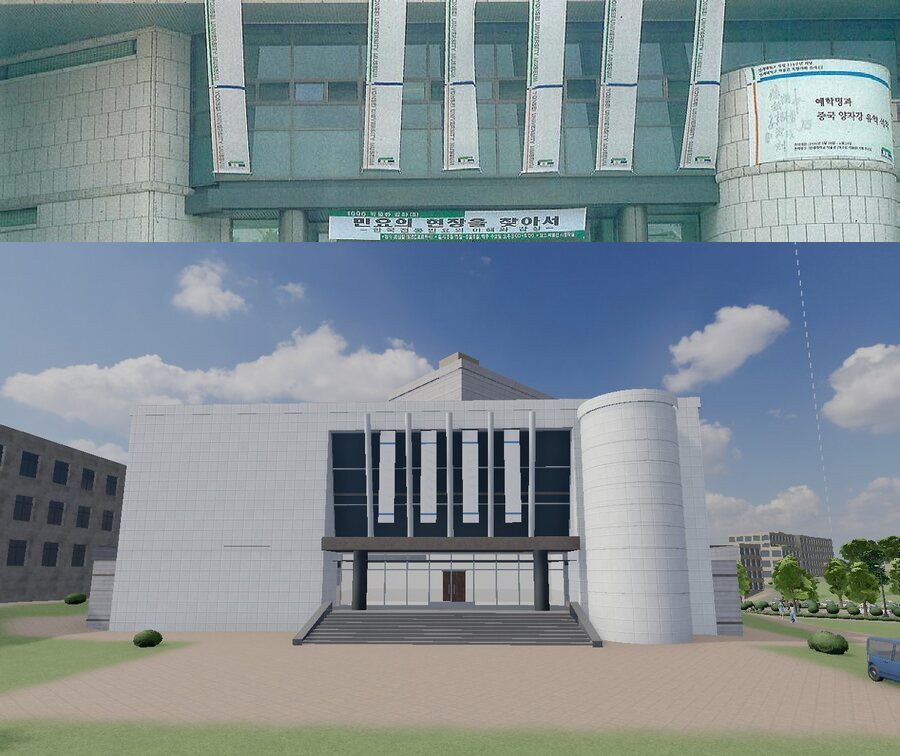
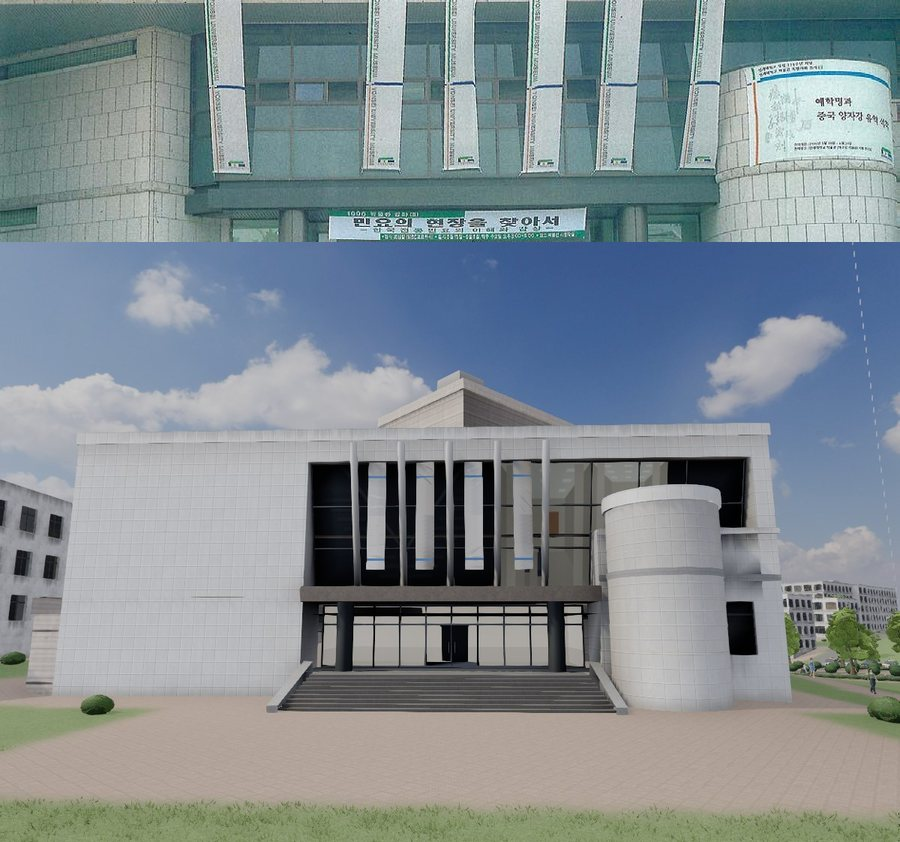
백주년기념관 북쪽에서 원통이 땅까지 내려와 발치에 곡면 유리 로비
박물관 입구 덩어리 뒤에서 백양로 쪽 현관 북쪽 벽까지 기단을 원통 원에서
끝내고, 원통 발치를 짙은 멀리언 · 가로대의 곡면 유리(불 켜진 홀)와 흰
판석 · 거친 화강석 띠로. 원통 원과 OSM 외곽선 사이 두 자리는 회양목 화단.

박물관 입구 오른쪽은 정면 · 측면 사진대로:
- 유리벽이 원통 뒤로 북쪽 모서리 앞 기둥까지 이어짐
- 원통 머리를 유리 머리 아래로 낮춤
- 그 아래 낮은 흰 벽에 화강석 띠와 가로 창 띠, 북서쪽 옆면까지 돌아감

측면 사진은 입구 오른쪽에서 찍은 것이라 비교 그림 75를 그쪽 카메라로,
52는 같은 카메라로 다시 찍음. 새 소식 캡처 90 · 91.

diff --git a/blender/landmarks.py b/blender/landmarks.py
@@ -374,6 +374,106 @@ def union():
 
 
 # ============================================================================= 백주년기념관
+def circle_cross(c, r, p, q):
+    """Where the segment p -> q (one end inside the circle (c, r), the other outside) crosses the circle."""
+    p, q, c = Vector(p).to_2d(), Vector(q).to_2d(), Vector(c).to_2d()
+    d = q - p
+    f = p - c
+    a, b, cc = d.dot(d), 2 * f.dot(d), f.dot(f) - r * r
+    disc = math.sqrt(max(0.0, b * b - 4 * a * cc))
+    ts = [u for u in ((-b - disc) / (2 * a), (-b + disc) / (2 * a)) if -1e-6 <= u <= 1 + 1e-6]
+    return p + d * (ts[0] if ts else 0.5)
+
+
+def inside_poly(pt, poly):
+    x, y = pt
+    ins = False
+    for i in range(len(poly)):
+        (x1, y1), (x2, y2) = poly[i], poly[i - 1]
+        if (y1 > y) != (y2 > y) and x < x1 + (y - y1) * (x2 - x1) / (y2 - y1):
+            ins = not ins
+    return ins
+
+
+def seg_dist(pt, a, b):
+    p, a, b = Vector(pt), Vector(a), Vector(b)
+    ab = b - a
+    u = max(0.0, min(1.0, (p - a).dot(ab) / max(ab.dot(ab), 1e-9)))
+    return (p - (a + ab * u)).length
+
+
+def planter(mb, poly, z0):
+    """A raised granite planter of clipped box filling the polygon poly (2D, either winding) over the ground."""
+    area = sum(poly[i - 1][0] * poly[i][1] - poly[i][0] * poly[i - 1][1] for i in range(len(poly))) / 2
+    poly = [tuple(p) for p in (poly if area > 0 else poly[::-1])]
+    zp = max(ground_top(*p) for p in poly) - z0 + 0.45
+    mb.prism(poly, z0 - 1.0, z0 + zp, 'stone_granite')
+    mb.face([(x, y, z0 + zp - 0.06) for x, y in poly], 'soil')
+    edges = list(zip(poly, poly[1:] + poly[:1]))
+    xs, ys = [p[0] for p in poly], [p[1] for p in poly]
+    gx = min(xs) + 0.4
+    while gx < max(xs):
+        gy = min(ys) + 0.4
+        while gy < max(ys):
+            if inside_poly((gx, gy), poly) and min(seg_dist((gx, gy), a_, b_) for a_, b_ in edges) > 0.45:
+                mb.sphere((gx, gy, z0 + zp + 0.25), 0.55, 'hedge_boxwood', seg=10, rings=7, sz=0.75)
+            gy += 0.8
+        gx += 0.8
+
+
+def nw_lobby(mb, c, R, arc, z0, HP, low, pockets):
+    """백주년기념관's drum come down to the ground on its north side (issue #32), on the arc `arc` of the drum's circle
+    (c, R): the 1996 side photo of the museum entrance shows the big curved wall going down past the low wall to tall
+    curved glass in dark upright mullions and a transom, under a band of white panels with a rough granite course;
+    today's photo of the 백양로 side the same curved row of glass left of the concert hall's porch.  The lobby behind it
+    lit like the other halls' (window glass in hall mode, common.py pane_uv).  The sill clears the ground where the
+    glass stands free (low: the arc's points there); in the outline's pockets outside it (pockets: polygons) raised
+    granite planters of clipped box, in front of the glass where the ground rises past its sill."""
+    gmax = max(ground_top(c[0] + (R + 0.6) * (p.x - c[0]) / R, c[1] + (R + 0.6) * (p.y - c[1]) / R) for p in low)
+    zs = max(0.6, gmax - z0 + 0.2)                  # the glass's sill over the ground where nothing stands before it
+    zh = HP - 1.6                                   # its head: two storeys of the lobby
+    ztr = zs + (zh - zs) * 0.62                     # the transom: tall lights below, short ones above
+    zg0, zg1 = zh + 0.75, zh + 1.1                  # the rough granite course in the white band
+    rg, rf = R - 0.25, R + 0.05                     # the glass set back under the band
+    ang = [math.atan2(p.y - c[1], p.x - c[0]) for p in arc]
+    ring = lambda r, a: (c[0] + r * math.cos(a), c[1] + r * math.sin(a))
+    W = 'stone_panel_white'
+    for k in range(len(arc) - 1):
+        a, b = ang[k], ang[k + 1]
+        A0, B0 = ring(rg, a), ring(rg, b)
+        # the glass, one lobby view per mullion bay; the white band and its granite course over it; the base below
+        # (faces wound like MeshBuilder.cylinder: outward for the angle increasing from A to B)
+        mb.quad((*A0, z0 + zs), (*B0, z0 + zs), (*B0, z0 + zh), (*A0, z0 + zh), 'glass', panes=(1, 1, True))
+        Af, Bf = ring(rf, a), ring(rf, b)
+        mb.quad((*Af, z0 + zh), (*Bf, z0 + zh), (*Bf, z0 + HP + 0.9), (*Af, z0 + HP + 0.9), W)
+        mb.quad((*A0, z0 + zh), (*B0, z0 + zh), (*Bf, z0 + zh), (*Af, z0 + zh), W)               # the soffit
+        mb.quad((*Af, z0 + HP + 0.9), (*Bf, z0 + HP + 0.9), (*ring(R - 0.1, b), z0 + HP + 0.9), (*ring(R - 0.1, a), z0 + HP + 0.9), W)
+        Ag, Bg = ring(rf + 0.07, a), ring(rf + 0.07, b)
+        mb.quad((*Ag, z0 + zg0), (*Bg, z0 + zg0), (*Bg, z0 + zg1), (*Ag, z0 + zg1), 'stone_granite')
+        mb.quad((*Af, z0 + zg0), (*Bf, z0 + zg0), (*Bg, z0 + zg0), (*Ag, z0 + zg0), 'stone_granite')
+        mb.quad((*Ag, z0 + zg1), (*Bg, z0 + zg1), (*Bf, z0 + zg1), (*Af, z0 + zg1), 'stone_granite')
+        Ab, Bb = ring(R + 0.2, a), ring(R + 0.2, b)
+        mb.quad((*Ab, z0 - 0.5), (*Bb, z0 - 0.5), (*Bb, z0 + zs), (*Ab, z0 + zs), 'stone_granite')
+        mb.quad((*Ab, z0 + zs), (*Bb, z0 + zs), (*B0, z0 + zs), (*A0, z0 + zs), 'stone_granite')
+        # the frame: sill, transom and head rails in front of the glass
+        for zz, w in ((zs + 0.05, 0.1), (ztr, 0.12), (zh - 0.05, 0.1)):
+            A1, B1 = ring(rg + 0.08, a), ring(rg + 0.08, b)
+            mb.quad((*A1, z0 + zz - w / 2), (*B1, z0 + zz - w / 2), (*B1, z0 + zz + w / 2), (*A1, z0 + zz + w / 2), 'frame_dark')
+            mb.quad((*A1, z0 + zz + w / 2), (*B1, z0 + zz + w / 2), (*B0, z0 + zz + w / 2), (*A0, z0 + zz + w / 2), 'frame_dark')
+    for k, a in enumerate(ang):                    # the upright mullions on the bay lines
+        p = Vector(ring(rg + 0.05, a))
+        tg = Vector((-math.sin(a), math.cos(a)))
+        if k in (0, len(ang) - 1):                  # the ends: the glass returns to the walls beside it
+            e0, e1 = Vector(ring(rg, a)), Vector(ring(rf + 0.07, a))
+            if k:
+                e0, e1 = e1, e0
+            mb.quad((*e0, z0 + zs), (*e1, z0 + zs), (*e1, z0 + HP + 0.9), (*e0, z0 + HP + 0.9), W)
+            continue
+        mb.box((p.x, p.y, z0 + (zs + zh) / 2), (0.1, 0.16, zh - zs), 'frame_dark', rotz=math.atan2(tg.y, tg.x))
+    for poly in pockets:
+        planter(mb, poly, z0)
+
+
 def centennial():
     """1997 aerial photo (reference/1997_백양로_항공사진.jpg): a large stone drum rising out of a two-storey podium that fills
     the whole site, a deep dark portal in the podium facing 백양로, and a plain box (stage house) standing above
@@ -397,32 +497,72 @@ def centennial():
     tw = (B_ - A_).normalized()
     nw = Vector((-tw.y, tw.x))                     # into the building
     notch = [A_ + tw * PS0, A_ + tw * PS0 + nw * PD, A_ + tw * PS1 + nw * PD, A_ + tw * PS1]
-    fpn = fp[:4] + [(p.x, p.y) for p in notch] + fp[4:]
+    # the north side: the drum comes down to the ground there (issue #32; the 1996 side photo of the museum entrance
+    # shows the big curved wall going down past the low wall to a band of tall curved glass, today's photo of the
+    # 백양로 side the same curved glass left of the concert hall's porch).  From the back of the museum block (its north-
+    # west side ends 15 m back, museum_entrance DB) round to the porch's north wall, the podium stops at the drum and
+    # the drum's foot is a lobby of tall curved glass (nw_lobby).  Outside it, in the outline's two pockets (behind the
+    # museum block and in the north-west corner), raised planters.
+    f0v, f1v = Vector(fp[0]), Vector(fp[1])
+    tne = (f1v - f0v).normalized()
+    nne = Vector((tne.y, -tne.x))                         # out of the museum's (north-east) face
+    nb = f1v, Vector(fp[2])
+    PDB = f1v - nne * 15.0                                # the museum block's back corner (museum_entrance LB1, DB)
+    Q0 = circle_cross(c, R, PDB, PDB - tne * 12.0)        # its back face meets the drum
+    X1 = circle_cross(c, R, nb[0], nb[1])                 # the drum leaves the outline (fp1 -> fp2)
+    X2 = circle_cross(c, R, notch[0], notch[1])           # the porch's north wall
+    a0 = math.atan2(Q0.y - c[1], Q0.x - c[0])
+    a2 = math.atan2(X2.y - c[1], X2.x - c[0])
+    narc = max(4, int(math.ceil((a2 - a0) / (2 * math.pi / seg))))
+    arc = [Vector((c[0] + R * math.cos(a0 + (a2 - a0) * k / narc), c[1] + R * math.sin(a0 + (a2 - a0) * k / narc)))
+           for k in range(narc + 1)]
+    # the planters' pockets between the drum's foot (and its granite base, R + 0.2) and the outline
+    Rp = R + 0.2
+    pa = lambda p: math.atan2(p.y - c[1], p.x - c[0])
+    parc = lambda u, v, m: [(c[0] + Rp * math.cos(u + (v - u) * k / m), c[1] + Rp * math.sin(u + (v - u) * k / m))
+                            for k in range(1, m)]
+    Q0p, X1p = circle_cross(c, Rp, PDB, PDB - tne * 12.0), circle_cross(c, Rp, nb[0], nb[1])
+    Ypp = circle_cross(c, Rp, Vector(fp[2]), Vector(fp[3]))
+    X2p = circle_cross(c, Rp, notch[0], notch[1])
+    pocket1 = [tuple(PDB), tuple(Q0p)] + parc(pa(Q0p), pa(X1p), 6) + [tuple(X1p)]
+    pocket2 = [tuple(Ypp), fp[3], tuple(notch[0]), tuple(X2p)] + parc(pa(X2p), pa(Ypp), 6)
+    low = [p for p in arc if pa(X1) - 0.02 <= pa(p) <= pa(Ypp) + 0.02] or [X1]
+    # the podium's outline (roof, plinth, coping) and its walls: (from, to, material, joint bands)
+    fpr = [fp[0], fp[1], (PDB.x, PDB.y)] + [(p.x, p.y) for p in arc] + [(notch[0].x, notch[0].y)] + fp[4:]
+    # the museum block's back face, bared down to the ground behind it
+    mb.face([(PDB.x, PDB.y, z0 - 1.0), (Q0.x, Q0.y, z0 - 1.0), (Q0.x, Q0.y, z0 + HP), (PDB.x, PDB.y, z0 + HP)],
+            'stone_panel_white')
+    walls = [(X2, notch[0], 'stone_ashlar', True)]
+    walls += [(notch[i], notch[i + 1], 'trim_black', False) for i in range(3)]       # the recess's sides and back
+    seq = [notch[3]] + [Vector(p) for p in fp[4:]] + [Vector(fp[0])]
+    walls += [(seq[i], seq[i + 1], 'stone_ashlar', True) for i in range(len(seq) - 1)]
     # podium
-    mb.prism(offset_poly(fp, 0.3), z0 - 4, z0 + 0.4, 'stone_granite', 'stone_granite')
-    for i in range(len(fpn)):
-        p, q = fpn[i], fpn[(i + 1) % len(fpn)]
-        if i == 0:
-            continue                                 # the north-east face: the museum entrance (museum_entrance)
-        inner = 4 <= i <= 6                          # the recess's two sides and its back
-        mb.face([(p[0], p[1], z0 + 0.4), (q[0], q[1], z0 + 0.4), (q[0], q[1], z0 + HP), (p[0], p[1], z0 + HP)],
-                'trim_black' if inner else 'stone_ashlar')
-    mb.face([(p[0], p[1], z0 + HP) for p in fp], 'roof_flat')
+    pl = offset_poly(fpr, 0.3)
+    mb.prism(pl, z0 - 4, z0 + 0.4, 'stone_granite', 'stone_granite')
+    for p, q, mat, _ in walls:
+        mb.face([(p[0], p[1], z0 + 0.4), (q[0], q[1], z0 + 0.4), (q[0], q[1], z0 + HP), (p[0], p[1], z0 + HP)], mat)
+    mb.face([(p[0], p[1], z0 + HP) for p in fpr], 'roof_flat')
     mb.face([(p.x, p.y, z0 + HP - 0.01) for p in notch], 'trim_black')                # the porch ceiling
     for zz in (3.2, 6.0):
-        for i in range(len(fpn)):
-            if 4 <= i <= 6 or i == 0:
+        for p, q, _, jb in walls:
+            if not jb:
                 continue
-            p, q = Vector(fpn[i]), Vector(fpn[(i + 1) % len(fpn)])
+            p, q = Vector(p), Vector(q)
             d = (q - p).normalized()
             o = Vector((d.y, -d.x)) * 0.04
             mb.face([(*(p + o), z0 + zz), (*(q + o), z0 + zz), (*(q + o), z0 + zz + 0.14), (*(p + o), z0 + zz + 0.14)],
                     'concrete_dark')
-    rim = offset_poly(fp, 0.12)                      # the podium's coping (not across the museum's front)
-    for i in range(1, len(rim)):
-        p, q = Vector(rim[i]), Vector(rim[(i + 1) % len(rim)])
+    # the podium's coping (not across the museum's front nor its north-west side, and stopping at the drum's foot)
+    rim = offset_poly(fpr, 0.12)
+    i1, i2 = 3, 3 + narc                             # the arc's ends in fpr
+    rim[i1:i2 + 1] = [(c[0] + (R - 0.05) * (p.x - c[0]) / R, c[1] + (R - 0.05) * (p.y - c[1]) / R) for p in arc]
+    rim[1] = tuple(f1v + nne * 0.12)                 # (flush with the museum block's north-west side and back)
+    rim[2] = tuple(PDB)
+    cope = [(Vector(rim[i]), Vector(rim[(i + 1) % len(rim)])) for i in range(i2, len(rim))]
+    for p, q in cope:
         mb.quad((p.x, p.y, z0 + HP), (q.x, q.y, z0 + HP), (q.x, q.y, z0 + HP + 0.9), (p.x, p.y, z0 + HP + 0.9), 'stone_ashlar')
     mb.face([(p_[0], p_[1], z0 + HP + 0.9) for p_ in rim], 'stone_ashlar')
+    nw_lobby(mb, c, R, arc, z0, HP, low, [pocket1, pocket2])
     # drum with incised horizontal joints above the podium; where it overhangs the podium its underside is in shadow
     joints = [HP + 0.9 + k * 3.0 for k in range(1, 4)]
     z = z0 + HP
@@ -539,50 +679,90 @@ def museum_entrance(A, B, z0, HP):
     cylinder (right) and a tall white wall (left), both in large white panels on a square grid, a storey and a half of
     glass in grey mullions leaning out towards its top, white tubes slanting up in front of it, the museum's long white
     banners hanging there; under it a deep dark canopy on two round dark columns over a row of aluminium-framed glass
-    doors, and a broad granite flight down to a paved forecourt (tools/build_campus.py CENT_NE)."""
+    doors, and a broad granite flight down to a paved forecourt (tools/build_campus.py CENT_NE).
+    Right of the glass (the front photos and the side photo, issue #32): the glass runs on behind the cylinder, whose
+    head stands below the glass's, over a lower white wall with a rough granite band at the canopy's height and a row
+    of windows at the lobby floor; the low wall turns the north corner and runs back along the north-west side, where
+    the drum comes down to the ground (centennial, nw_lobby)."""
     mb = MeshBuilder('lm_centennial_museum')
     P, Le, t, n = edge_P(A, B, z0)                 # s from the south-east end, d > 0 out of the face
     zf = CENT_DOOR_FLOOR = 3.93                     # the lobby floor over the hall's datum: nine risers over the forecourt
     S0, S1 = 15.0, 31.0                             # the entrance between the wall and the cylinder
-    LB0, LB1, DB = 1.5, 39.0, -15.0                 # the entrance block, back into the drum
+    LB0, LB1, DB = 1.5, Le, -15.0                   # the entrance block (to the north corner), back into the drum
     ZT = zf + 12.8                                  # its top
     zcb, zct = zf + 3.7, zf + 4.5                   # canopy underside / top
     g0, g1 = zct, zf + 11.6                         # the leaning glass: foot (behind the canopy) and head
     dg0, dg1 = -2.4, -0.6
     dr = -3.2                                       # the doors' plane under the canopy
+    ZL = zf + 7.6                                   # the low wall right of the cylinder: its top (under the glass)
+    ZC = zf + 9.0                                   # the cylinder's head, below the glass's (front photos)
+    zw0, zw1 = zf + 0.9, zf + 3.7                   # the low wall's row of windows
+    zb0, zb1 = zct + 0.25, zct + 0.6                # its rough granite band (and the cylinder's), over the canopy
+    SC = Le - 1.0                                   # the corner pier from here
     W, D = 'stone_panel_white', 'concrete_dark'
-    # the block over the podium roof up to ZT: its sides and top (its back stands inside the drum)
-    for s_, sg in ((LB0, -1), (LB1, 1)):
-        q = [P(s_, HP, 0), P(s_, HP, DB), P(s_, ZT, DB), P(s_, ZT, 0)]
-        mb.face(q if sg > 0 else q[::-1], W)
+    # the block over the podium roof up to ZT: its south-east side, top and back (its back stands inside the drum)
+    q = [P(LB0, HP, 0), P(LB0, HP, DB), P(LB0, ZT, DB), P(LB0, ZT, 0)]
+    mb.face(q[::-1], W)
     mb.face([P(LB0, ZT, 0), P(LB1, ZT, 0), P(LB1, ZT, DB), P(LB0, ZT, DB)], 'roof_flat')
     mb.face([P(LB1, HP, DB), P(LB0, HP, DB), P(LB0, ZT, DB), P(LB1, ZT, DB)], W)
     for s_a, s_b in ((LB0, LB1),):
         mb.box(P((s_a + s_b) / 2, ZT + 0.35, -0.2), (s_b - s_a + 0.3, 0.5, 0.7), W, rotz=math.atan2(t.y, t.x))
-    # the face: podium wall at the ends, the white wall left of the entrance, a band over the glass, the right end
+    # the face: podium wall at the south-east end, the white wall left of the entrance, a band over the glass
     flat_wall(mb, P, 0.0, LB0, 0.4, HP, 'stone_ashlar')
-    flat_wall(mb, P, LB1, Le, 0.4, HP, 'stone_ashlar')
     flat_wall(mb, P, LB0, S0, -3.0, ZT, W)
-    flat_wall(mb, P, S1, LB1, -3.0, ZT, W)
-    flat_wall(mb, P, S0, S1, g1, ZT, W)
+    flat_wall(mb, P, S0, SC, g1, ZT, W)
+    flat_wall(mb, P, SC, Le, -3.0, ZT, W)                                    # the corner pier
     for zz in (3.2, 6.0):                                                   # the podium's joint bands carried on
-        for a_, b_ in ((0.0, LB0), (LB1, Le)):
-            bar(mb, P, a_, zz + 0.07, b_, zz + 0.07, 0.14, 0.0, 0.04, D)
+        bar(mb, P, 0.0, zz + 0.07, LB0, zz + 0.07, 0.14, 0.0, 0.04, D)
     # the recess: its sides under the canopy, the soffit of the glass's head, the leaning sides beside the glass
+    lean = lambda s_, f: P(s_, g0 + (g1 - g0) * f, dg0 + (dg1 - dg0) * f)
+    fL = (ZL - g0) / (g1 - g0)                                              # the glass where the low wall meets it
     for s_, sg in ((S0, 1), (S1, -1)):
         q = [P(s_, zf, 0), P(s_, zf, dr), P(s_, zcb, dr), P(s_, zcb, 0)]
         mb.face(q if sg > 0 else q[::-1], W)
-        q = [P(s_, zct, 0), P(s_, g0, dg0), P(s_, g1, dg1), P(s_, g1, 0)]
-        mb.face(q if sg > 0 else q[::-1], W)
-    mb.quad(P(S1, g1, 0), P(S0, g1, 0), P(S0, g1, dg1), P(S1, g1, dg1), W)
-    # the glass: 6 x 3 large lights in grey mullions, leaning out towards the head
-    lean = lambda s_, f: P(s_, g0 + (g1 - g0) * f, dg0 + (dg1 - dg0) * f)
+    mb.face([P(S0, zct, 0), P(S0, g0, dg0), P(S0, g1, dg1), P(S0, g1, 0)], W)
+    mb.face([P(S1, ZL, 0), lean(S1, fL), P(S1, g0, dg0), P(S1, zct, 0)], W)  # (right of it the low wall's end)
+    mb.face([P(SC, ZL, 0), P(SC, g1, 0), P(SC, g1, dg1), lean(SC, fL)], W)  # the pier's side over the low wall
+    mb.quad(P(SC, g1, 0), P(S0, g1, 0), P(S0, g1, dg1), P(SC, g1, dg1), W)
+    # the glass: 6 x 3 large lights in grey mullions, leaning out towards the head, and on in the same bays behind the
+    # cylinder and over the low wall to the corner pier
     mb.quad(lean(S0, 0), lean(S1, 0), lean(S1, 1), lean(S0, 1), 'glass', panes=(3, 1, True))    # the museum's hall
+    mb.quad(lean(S1, fL), lean(SC, fL), lean(SC, 1), lean(S1, 1), 'glass', panes=(2, 1, True))
+    bay = (S1 - S0) / 6
     for k in range(7):
-        s_ = S0 + (S1 - S0) * k / 6
+        s_ = S0 + bay * k
         rod(mb, lean(s_, 0), lean(s_, 1), 0.06, 'frame_silver', seg=4)
+    s_ = S1 + bay
+    while s_ < SC - 0.6:
+        rod(mb, lean(s_, fL), lean(s_, 1), 0.06, 'frame_silver', seg=4)
+        s_ += bay
+    rod(mb, lean(SC - 0.05, fL), lean(SC - 0.05, 1), 0.06, 'frame_silver', seg=4)
     for j in range(4):
-        rod(mb, lean(S0, j / 3), lean(S1, j / 3), 0.06, 'frame_silver', seg=4)
+        rod(mb, lean(S0, j / 3), lean(SC if j / 3 > fL else S1, j / 3), 0.06, 'frame_silver', seg=4)
+    rod(mb, lean(S1, fL + 0.01), lean(SC, fL + 0.01), 0.06, 'frame_silver', seg=4)
+    # the low wall from the glass's right edge to the corner pier: white panels, the granite band, a row of windows
+    # (behind the cylinder too), a coping, and its top back to the glass
+    lw = [(S1 + 0.5, SC - 0.5, zw0, zw1)]
+    wall_holes(mb, P, S1, SC, -3.0, ZL, W, lw)
+    for a_, b_, za_, zb_ in lw:
+        reveal(mb, P, a_, b_, za_, zb_, 0.25, W)
+        glazing(mb, P, a_, b_, za_, zb_, -0.25, max(2, round((b_ - a_) / 1.6)), 1, 'frame_dark', transom=zw0 + 2.1)
+    bar(mb, P, S1, (zb0 + zb1) / 2, Le, (zb0 + zb1) / 2, zb1 - zb0, 0.0, 0.06, 'stone_granite')
+    bar(mb, P, S1, ZL - 0.15, Le + 0.1, ZL - 0.15, 0.3, 0.0, 0.12, W)
+    mb.quad(P(S1, ZL, 0), P(SC, ZL, 0), lean(SC, fL), lean(S1, fL), W)
+    # its north-west side, the corner to the drum: the same low wall and windows, glass above it set back, the band
+    Pn, Ln, tn, nn = edge_P(tuple(Vector(B)), tuple(Vector(B) + n.to_2d() * DB), z0)
+    UL = -DB
+    hn = [(1.6, UL - 1.0, zw0, zw1)]
+    wall_holes(mb, Pn, 0.0, UL, -3.0, ZL, W, hn)
+    for a_, b_, za_, zb_ in hn:
+        reveal(mb, Pn, a_, b_, za_, zb_, 0.25, W)
+        glazing(mb, Pn, a_, b_, za_, zb_, -0.25, max(2, round((b_ - a_) / 1.6)), 1, 'frame_dark', transom=zw0 + 2.1)
+    bar(mb, Pn, 0.0, (zb0 + zb1) / 2, UL, (zb0 + zb1) / 2, zb1 - zb0, 0.0, 0.06, 'stone_granite')
+    bar(mb, Pn, -0.1, ZL - 0.15, UL, ZL - 0.15, 0.3, 0.0, 0.12, W)
+    wall_holes(mb, Pn, 0.0, UL, ZL, ZT, W, [(1.0, UL - 0.6, ZL, g1)])
+    reveal(mb, Pn, 1.0, UL - 0.6, ZL, g1, 0.6, W)
+    glazing(mb, Pn, 1.0, UL - 0.6, ZL, g1, -0.6, max(2, round((UL - 1.6) / bay)), 2, 'frame_silver')
     # the lit floors seen through it: a dark room behind, two slab edges
     mb.quad(P(S0, zct, -7.0), P(S1, zct, -7.0), P(S1, g1, -7.0), P(S0, g1, -7.0), 'hall_wall')
     for zz in (zf + 7.6,):
@@ -611,12 +791,16 @@ def museum_entrance(A, B, z0, HP):
     shopfront(mb, P, S0 + 0.3, S1 - 0.3, zf, zcb - 0.05, dr, bays=10, door_h=2.5)
     vestibule(mb, P, S0 + 0.3, S1 - 0.3, zf, zcb - 0.05, dr - 0.03, 5.0, lights=2)
     WALK_FACES.append([P(S0, zf, dr), P(S1, zf, dr), P(S1, zf, 0.2), P(S0, zf, 0.2)])
-    # the cylinder, standing half out of the face right of the glass, a cap ring at its head
+    # the cylinder, standing half out of the face right of the glass, a cap ring at its head (the glass rises on
+    # behind it, front photos), a rough granite band at the canopy's height like the low wall's
     cx, cy, _ = P(S1 + 3.0, 0, 1.2)
-    mb.cylinder((cx, cy), 2.75, z0 + zf - 1.5, z0 + ZT - 1.0, W, seg=28, cap_top=False)
-    mb.cylinder((cx, cy), 2.9, z0 + ZT - 1.0, z0 + ZT - 0.3, W, seg=28)
-    for k in range(1, int((ZT - zf - 1.0) / 1.2)):
-        mb.cylinder((cx, cy), 2.77, z0 + zf + k * 1.2, z0 + zf + k * 1.2 + 0.04, 'stone_ashlar', seg=28, cap_top=False)
+    mb.cylinder((cx, cy), 2.75, z0 + zf - 1.5, z0 + ZC - 0.7, W, seg=28, cap_top=False)
+    mb.cylinder((cx, cy), 2.9, z0 + ZC - 0.7, z0 + ZC, W, seg=28)
+    mb.cylinder((cx, cy), 2.81, z0 + zb0, z0 + zb1, 'stone_granite', seg=28, cap_top=False)
+    for k in range(1, int((ZC - 0.7 - zf) / 1.2)):
+        zk = zf + k * 1.2
+        if not zb0 - 0.2 < zk < zb1 + 0.2:
+            mb.cylinder((cx, cy), 2.77, z0 + zk, z0 + zk + 0.04, 'stone_ashlar', seg=28, cap_top=False)
     # the flight: as wide as the entrance, granite side walls, down to the forecourt
     mb.xf = Matrix.Translation(Vector(P((S0 + S1) / 2, zf, 0.2))) @ Matrix.Rotation(ang, 4, 'Z')
     stair_flight(mb, 0.0, 0.0, S1 - S0 - 2.0, 0.0, landing=1.4, tread=0.36, flare=0.6, cheek=0.5, cheek_mat='stone_granite',

diff --git a/README.md b/README.md
@@ -93,7 +93,7 @@ PC 브라우저에서 모바일 화면을 시험하려면 주소 끝에 `?touch`
 - **Blender로 직접 모델링한 랜드마크** (`blender/landmarks.py`, 건물마다의 근거는 고증 3장)
   - 중앙도서관: 높은 석재 기둥과 얕은 세그먼트 아치, 두 단 화강석 기단 위 아케이드, 유리문 너머 불 켜진 로비
   - 학생회관: 필로티, 흰 프리캐스트 콘크리트 판에 뾰족아치 창, 세로 현수막
-  - 백주년기념관: 기단 위의 큰 원통과 무대 탑, 백양로 쪽의 어두운 현관과 남서쪽 앞 상자, 광혜원 쪽 박물관 입구
+  - 백주년기념관: 기단 위의 큰 원통과 무대 탑(북쪽에선 땅까지 내려와 발치에 곡면 유리 로비), 백양로 쪽의 어두운 현관과 남서쪽 앞 상자, 광혜원 쪽 박물관 입구
   - 언더우드관 · 스팀슨관 · 아펜젤러관 · 연희관: 갈색 잡석 벽, 계절마다 색이 바뀌는 담쟁이, 튜더 아치 안 철제 유리문 현관과 화강석 계단, 앞 정원.
     언더우드관 · 연희관은 탑 선 석조 고딕, 스팀슨관 · 아펜젤러관은 탑 없는 2층에 세 개씩 묶은 돌 문설주 창(스팀슨관은 가운데 현관부와 굴뚝, 아펜젤러관은 양끝의 꺾인 내닫이 칸)
   - 대우관 · 별관 (1996): 흰 석조 고딕, 석축 아래 아치 현관과 그 위 테라스, 상뜰, 뒤쪽 계단탑과 주차장
